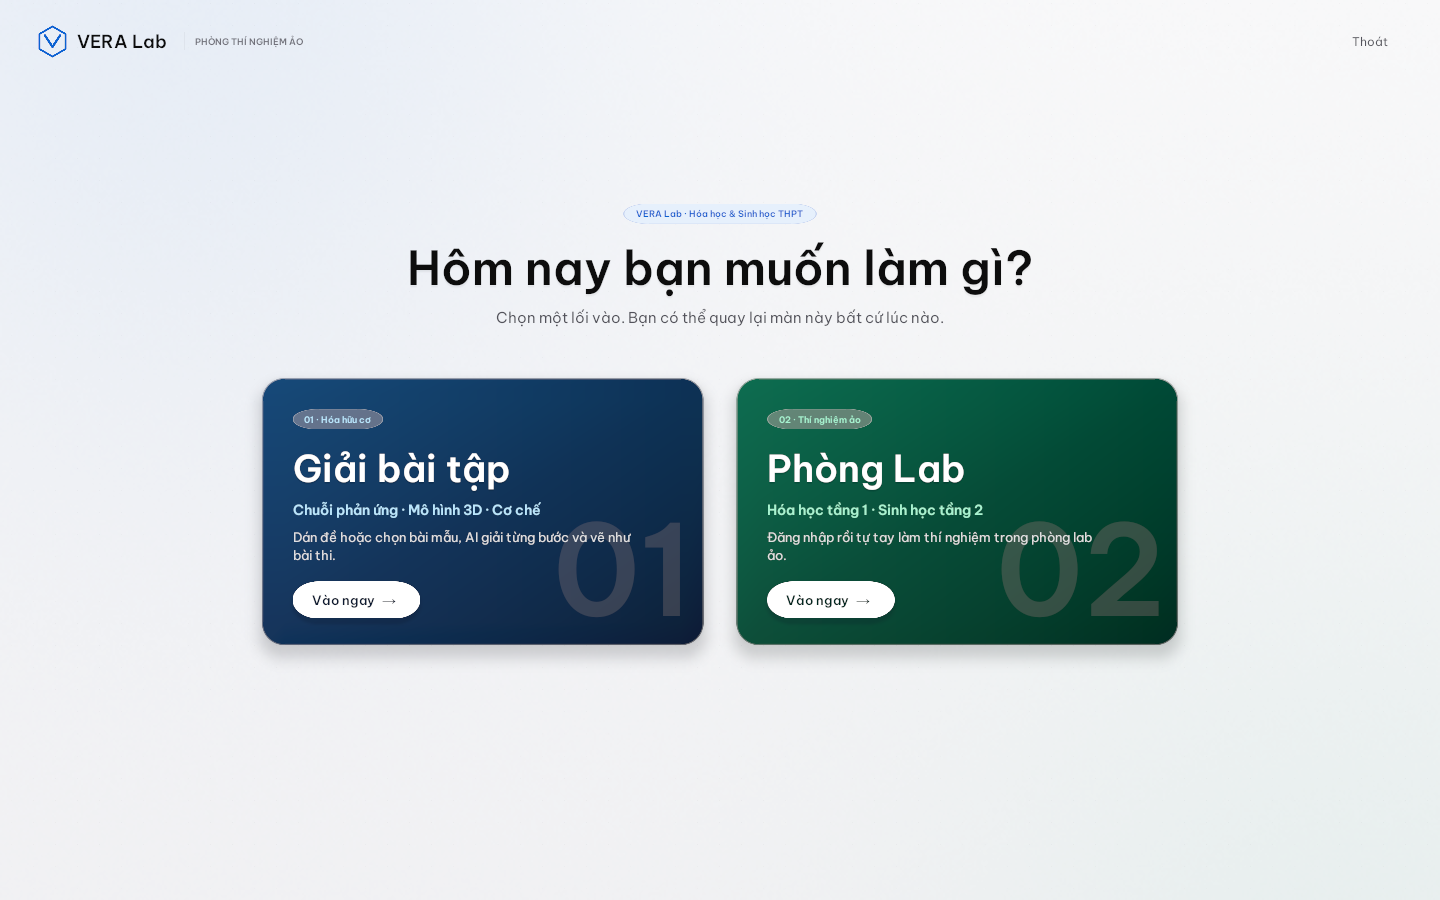
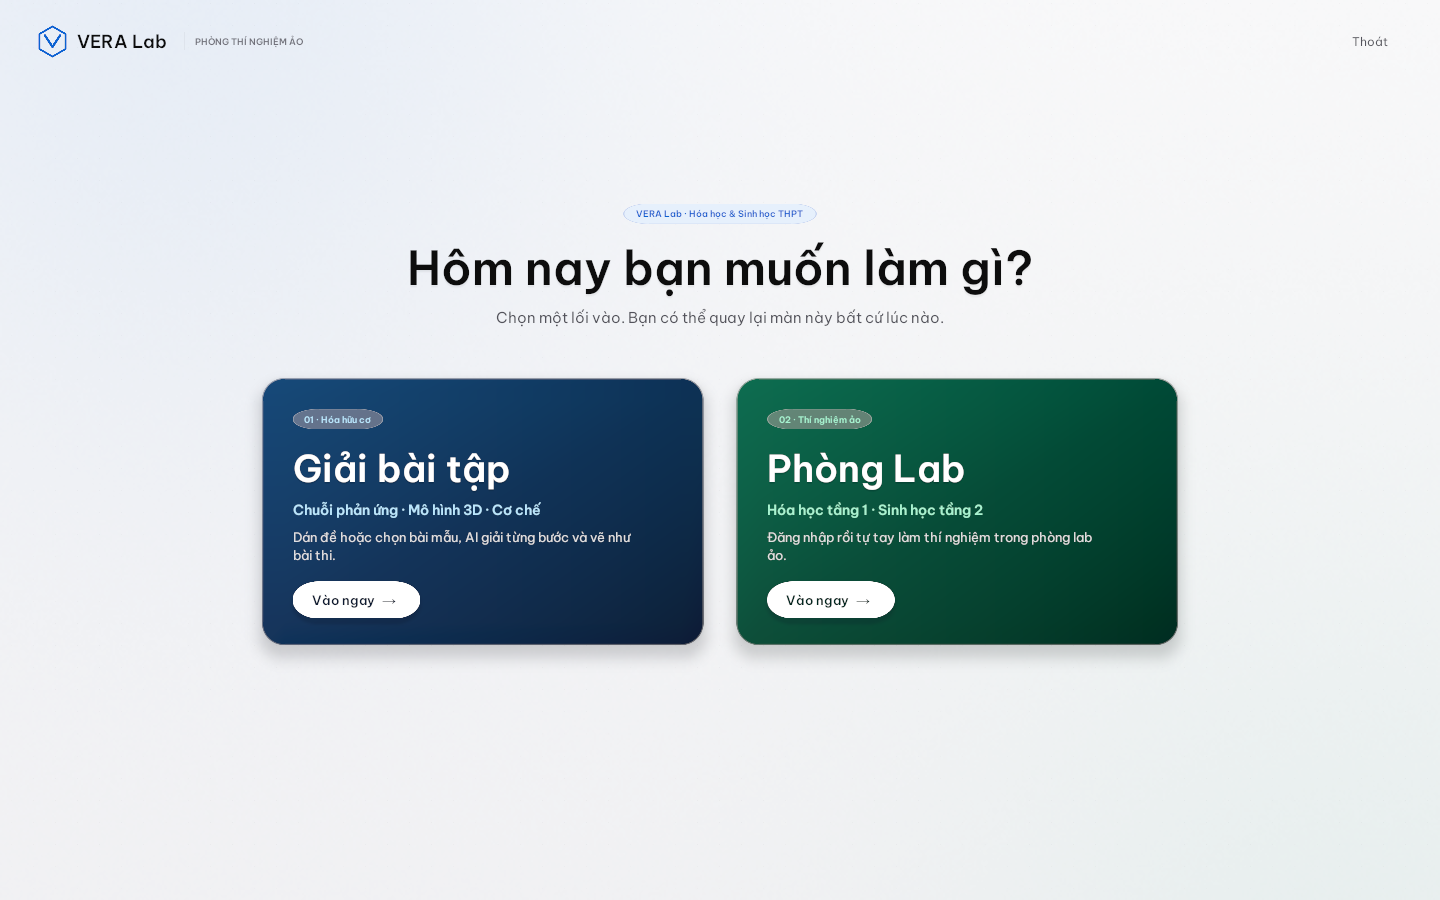
Giao diện mới: bỏ số mờ trên thẻ lớn, ảnh sau lần cuối (KhktUiVerify 54/54), báo cáo

Changed region(s): [[0.6875, 0.56, 0.8125, 0.6844], [0.375, 0.56, 0.5, 0.6844]]

diff --git a/docs/ngay-18-11/bao-cao-giao-dien-moi.md b/docs/ngay-18-11/bao-cao-giao-dien-moi.md
@@ -1,0 +1,62 @@
+# Báo cáo: làm mới giao diện ngoài lab (18–19/11)
+
+Nguyên tắc thiết kế rút ra từ CHEMISTRY: `thiet-ke-giao-dien-moi.md`. Tiến độ từng bước: `tien-do-giao-dien-moi.md`.
+Ảnh trước/sau (1440×900, 3 nền): `anh/giao-dien-moi/truoc_*.png`, `anh/giao-dien-moi/sau_*.png`.
+
+## Vì sao trước đây trông "nhựa"
+- Thẻ là mảng tô phẳng trên nền phẳng, bóng một lớp đều; nút phụ và ô nhập làm viền bằng cách chồng hai mảng tô
+  (viền dày, đứt ở mép trái — thấy rõ ở ô nhập và nút "Đổi" trong ảnh `truoc_dang_nhap_Trang`).
+- Rê chuột chỉ phóng to 1–2 %, thẻ không "nổi lên"; ảnh bo góc bằng Mask stencil nên góc răng cưa.
+
+## Đã làm
+**Hệ thống chung** (`Scripts/Menu/Dashboard/MenuKit.cs`, `MenuAnim.cs`):
+- Sprite bo góc vẽ một lần ở 2x cho Retina (khối đặc, viền tóc 1,25 điểm, phần ngoài góc để bo góc ảnh), bán kính tính bằng
+  điểm: nút 12, thẻ 20, thẻ lớn 28, viên nang.
+- Thẻ: bóng hai lớp (rơi 30 điểm + sát 4 điểm), thân, viền tóc, ánh mép trên ở nền tối. `MakeCardClickable`: rê chuột thẻ nhấc
+  4–6 điểm, bóng đậm và rơi xa hơn, viền chuyển màu nhấn (như thẻ lớn CHEMISTRY).
+- Nút: Bóng / Mặt / Viền / Sáng / Chữ; nút chính có dải sáng dọc và viền sáng mép trên; rê thì lớp sáng hiện, nhấn co 0,97.
+- Lò xo (`MenuHover`, `MenuSwitch`, `MenuFocusRing`): tích phân bán ẩn, bước con 1/240 s theo `Time.unscaledDeltaTime`
+  (không phụ thuộc FPS), không cấp phát mỗi khung, tự ngừng khi đứng yên. Giảm chuyển động → nhảy thẳng trạng thái cuối.
+- `MenuGradient`: dải màu theo góc kiểu CSS bằng màu đỉnh lưới (giữ mép khử răng cưa của sprite).
+- `Backdrop`: nền có chiều sâu (dải dọc rất nhẹ + hai quầng màu nhấn ≤ 10 % + vân chấm), ảnh đục nên không thành lớp phủ làm xám.
+- `ImageFrame`: ảnh phủ kín khung, bốn góc phủ màu thẻ (thay Mask stencil), viền tóc.
+- `TextField` (viền chuyển màu nhấn + quầng 3 điểm khi gõ), `Tabs` (thanh phân đoạn / danh sách dọc có vệt chọn trượt),
+  `Switch` (công tắc viên nang, núm có bóng), `Tag`, `Eyebrow`, `TextShadow`.
+- `MenuAnim`: thêm đường cong out-quint (≈ `cubic-bezier(.22,1,.36,1)`) và away, `Pop` cho hộp thoại (0,96 → 1),
+  `Leave` cho rời màn (mờ + chìm 200 ms), `Enter` mặc định 0,45 s; số đếm chỉ tạo chuỗi khi con số đổi.
+- Không dùng `Outline` hay chồng mảng tô để làm viền ở bất kỳ màn nào đã đổi.
+
+**Các màn**:
+- Màn chọn 2 luồng: nhãn chào, tiêu đề 60 đậm có bóng chữ, hai thẻ lớn dải màu chéo (navy / ngọc lục bảo) không ảnh, chữ trắng 48,
+  nút "Vào ngay →" trắng có mũi tên nhích khi rê; các phần hiện lần lượt.
+- Giải bài tập: thanh trên (logo, vạch, nhãn), thẻ công cụ có ảnh bo góc lồng, nút chính có mũi tên, hàng Hóa lý thẻ nhỏ bấm cả thẻ.
+  Cài đặt Giải bài tập: hộp thoại nở ra, thanh phân đoạn Thông tin/API, ô nhập mới.
+- Đăng nhập / Đăng ký / Đổi mật khẩu / Phòng học chung / Màn chờ: nền chiều sâu, mỗi màn trong một thẻ nổi, ô nhập mới;
+  nút **Cài đặt ở góc dưới trái** màn đăng nhập (theo bản phác). Màn chờ: thanh tiến độ viên nang dải màu, phần trăm lớn.
+- Cài đặt app: đặt giữa cả màn (cột phải chỉ ~950 điểm ở màn 16:10 nên trước đó tràn), danh sách mục có vệt chọn trượt,
+  thẻ xem trước giao diện viền tóc, công tắc lò xo, cỡ chữ / cỡ bảng là thanh phân đoạn.
+- Bảng điều khiển: nền chiều sâu, thanh bên viền tóc, vệt chọn có vạch màu nhấn trượt out-quint, thẻ phòng thí nghiệm dải màu
+  (bỏ ảnh dưới lớp màu che bằng Mask), thẻ mô-đun ảnh bo góc khử răng cưa và bấm được cả thẻ.
+
+**Kiểm thử**: `KhktUiRunner` đợi `MenuAnim.Busy` hết (tối đa 3 s) trước khi chụp. KhktUiVerify: **54/54 đạt**, 0 lỗi lúc chạy, 3 nền.
+
+## Ghi chú
+- Phạm vi: chỉ `Scripts/Menu/**` (gồm `KhktUiRunner.cs`) và tài liệu. Không sửa GlassKit/UiTheme: hai tệp này dùng chung cho
+  bảng trong lab (vát góc kiểu máy đo ở nền Xanh mực); MenuKit có bộ hình riêng nên giao diện ngoài lab đổi mà lab không bị ảnh hưởng.
+- Lúc kiểm thử, thư mục chính có tệp Hóa lý chưa commit của phiên khác đang làm dở (thiếu `TrangTocDo`, `TrangCanBang`,
+  `TrangDongCo`) nên cả dự án không biên dịch khi đồng bộ từ thư mục chính. Tôi chạy kiểm thử từ bản sao riêng ở scratchpad
+  (bỏ các tệp đó). Khi phiên Hóa lý xong, cần chạy lại KhktUiVerify từ thư mục chính.
+- Ảnh batchmode dựng ở màn ảo 640×480 nên chữ nhỏ có thể hơi nhòe; độ nét đánh giá trên app Mac (mục dưới).
+- Biểu tượng thanh bên và ô chỉ số dùng phông Segoe MDL2 (chỉ có trên Windows); trên Mac các ô biểu tượng trống như trước.
+
+## Độ nét trên app Mac: CHƯA kiểm
+Đã chạy `Khkt.EditorTools.MacBuild.Build` hai lần (19/11 sáng). Cả hai lần lệnh bị dừng từ bên ngoài (mã 144): lần 1
+lúc đang biên dịch shader, không có lỗi mã; lần 2 trước khi Unity khởi động. `~/AppBuild/VERA_mac` vẫn là bản 18/11.
+Việc còn lại: dựng lại khi máy rảnh rồi mở app ở màn Retina, xem chữ 13–17 điểm ở màn chọn, đăng nhập và cài đặt.
+Thiết kế đã lo phần nét: canvas pixelPerfect, sprite viền vẽ ở 2x, thẻ nhấc bằng dời vị trí (không phóng to nên chữ không bị
+co giãn nhòe), chỉ nút co 0,97 trong lúc nhấn.
+
+## Commit
+- `ab8d18f9`: hệ thống chung MenuKit/MenuAnim, ảnh trước, nguyên tắc thiết kế.
+- `9c6ce2ba`: áp lên mọi màn, ảnh sau.
+- Commit cuối: bỏ số mờ trên thẻ lớn, ảnh sau lần cuối, báo cáo.

diff --git a/docs/ngay-18-11/tien-do-giao-dien-moi.md b/docs/ngay-18-11/tien-do-giao-dien-moi.md
@@ -20,10 +20,12 @@ Commit ab8d18f9: hệ thống chung + ảnh trước + nguyên tắc (KhktUiVeri
 Commit (bước 2): ManChonLuong, MainMenu, DashboardShell, PageOverview, MenuKit (TextField) + ảnh "sau" — KhktUiVerify 54/54 đạt
 (chạy từ bản kiểm riêng `scratchpad/wt/dong_bo.sh` vì tệp Hóa lý chưa commit của phiên khác đang làm dở, không biên dịch).
 
+Bước 3 (commit cuối): bỏ số mờ 01/02, kiểm lần cuối 54/54 đạt, ảnh sau lần cuối, báo cáo `bao-cao-giao-dien-moi.md`.
+
 ## Còn lại
-1. Chạy kiểm thử lần cuối (màn chọn đã bỏ số mờ 01/02), chép lại ảnh `sau_man_chon_*`.
-2. Dựng app Mac (Khkt.EditorTools.MacBuild.Build → ~/AppBuild/VERA_mac), xem độ nét chữ.
-3. Viết `docs/ngay-18-11/bao-cao-giao-dien-moi.md`, commit.
+1. Dựng app Mac (`Khkt.EditorTools.MacBuild.Build`, ra ~/AppBuild/VERA_mac) và xem độ nét chữ trên Retina: hai lần dựng
+   bị dừng từ bên ngoài (mã 144), chưa làm được.
+2. Khi phiên Hóa lý commit xong: chạy lại KhktUiVerify từ thư mục chính (không cần bản kiểm riêng).
 
 ## Lệnh kiểm thử
 ```bash
